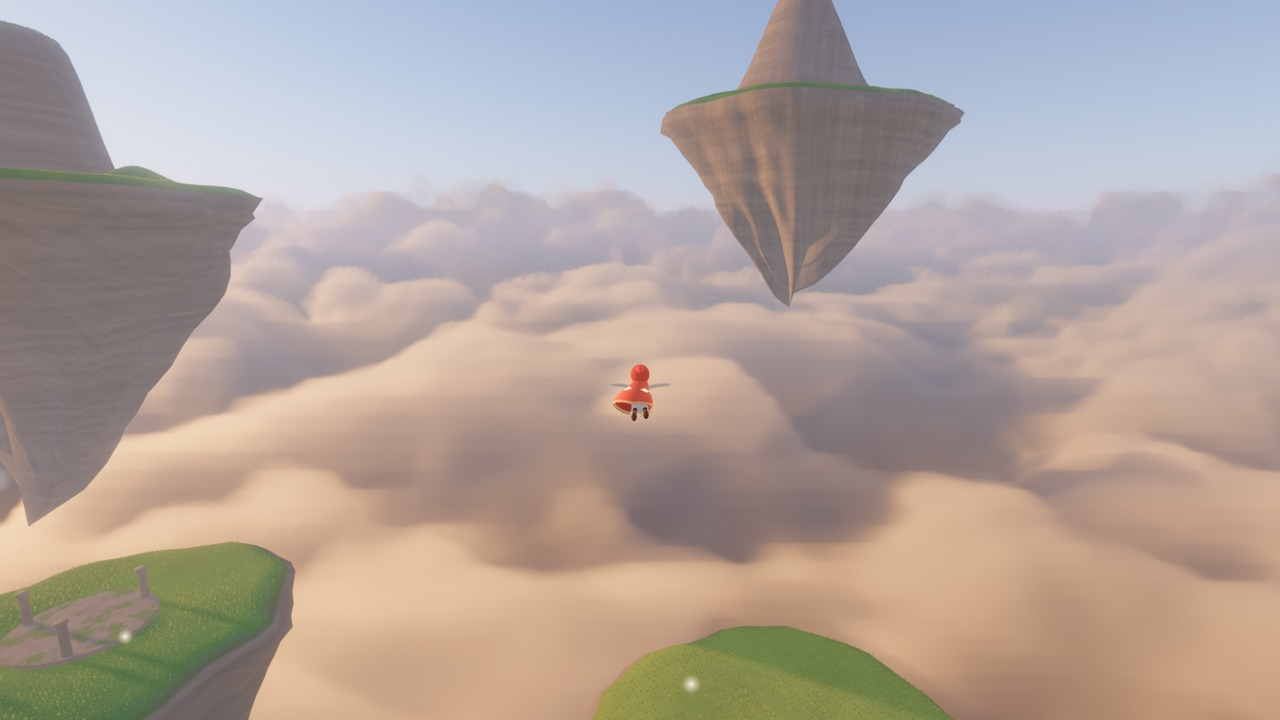
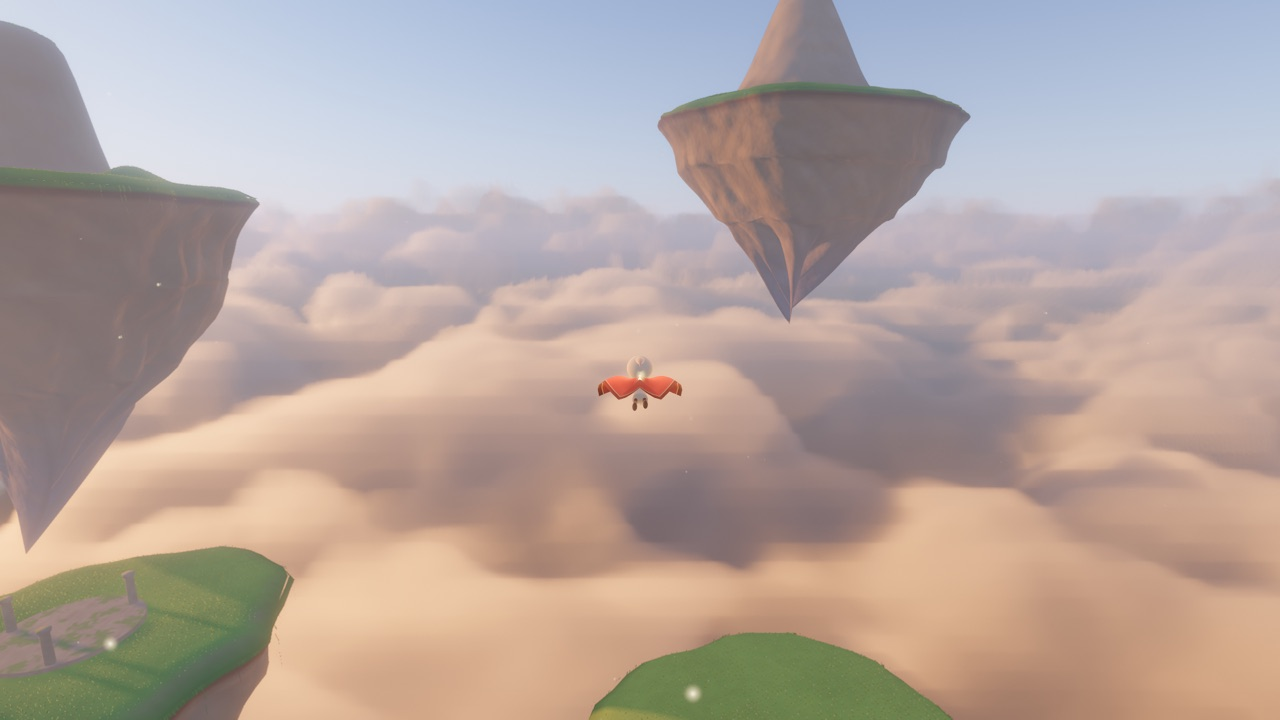
Devlog and README images of the polish round; views.txt captures the cave's roof
Verified: views.txt at 1920x1080 offscreen (5 passed, 0 failed), captures looked at.

diff --git a/devlog/2026-11-08.md b/devlog/2026-11-08.md
@@ -90,6 +90,30 @@ minutes of play, on the Mac and the iPhone. Everything procedural (no third-part
 - **06:17-06:20 — Step 6: the packages, the install.** `tools/package.sh --ios` at `9921d1b`; the iOS app
   installed on the user's iPhone 17 with `devicectl device install app` (no removal of existing content, not
   launched). Nothing else ran on a phone.
+- **06:22 — A polish round** on the largest differences from the look aimed at, in order: the figures, the rock under
+  the isles, the temple's beam, the light, the cave, then the engine's cloud shadows. Each step: captures, looked at,
+  differences listed, fixed, captured again.
+- **06:22-06:34 — The figures** (`28c86e2`). Chibi proportions (about 1.05 m): a round hood with a small pale mask,
+  thin dark legs; a bell cape that swings back when running and spreads as wings in a glide; marks down the back
+  that glow with the energy (dim when spent) with small halos; a soft rim light against the sun. The camera 3.4 m
+  behind (was farther), 25% farther in a glide. Shorter grass, more flowers. The spirits climb over rock in their
+  way (a ray down ahead of them) instead of flying through it.
+- **06:34-06:42 — The rock under the isles** (`0c4d904`). Each isle's underside is its own mesh: a profile with
+  ledges on part of the way round, lumps, buttresses and a few points hanging deeper, so the outline is no longer a
+  cone; earth under the grass, warm stone, cooler and lilac toward the clouds; stone noise projected along the
+  normal (no stretching) with soft bumps, moss on the ledges. Tufts of grass over the rims, roots and vines hanging
+  below them.
+- **06:42-07:16 — The beam, the temple, the light, the cave, the clouds' shadows** (`cfbf9e2`). The beam: a hot
+  core, a glow round it that widens with the distance (seen from the far isles), motes rising in it, a flare where
+  it leaves the temple's crown; the crown: ten pinnacles on the ring, five ribs curving in to a ring at the top. The
+  light: a warmer sun, a cooler sky, denser haze, more bloom; motes of light in the air round the camera (in fixed
+  cells of the world) and 14 small creatures of light over the meadows. The cave: a lumpier dome, rims round its
+  mouth and the holes in its roof, moss in wide patches with glowing specks inside; `views.txt` captures it in the
+  light from the roof (`cave_light`, `cave_roof`). The engine's cloud shadow map now lies on a plane the game sets
+  (`RenderSettings::cloudShadowHeight`, engine `0a1ace9`; engine devlog 2026-11-08): the game pins it and turns the
+  clouds' shadows on with the plane at the isles' height.
+- **07:16-07:20 — Captures and the README.** `views.txt` at 1920x1080 into `dist/captures/` (the first set kept in
+  `dist/captures/v1/`); the README's images made again from them, the cave added.
 
 ## Problems and solutions
 
@@ -136,6 +160,24 @@ minutes of play, on the Mac and the iPhone. Everything procedural (no third-part
 - **`tools/package.sh --ios` looked for `Cloudsong.xcodeproj`.** The Xcode generator names the project after the
   CMake project (`cloudsong`), and the app after the target. Fixed; the script also passes an empty bundle id suffix
   (a paid team).
+- **A fringe of tufts floating in the air** in the first captures of the rock: the cameras stood inside the meadow's
+  rock. Cameras moved outside; the tufts made irregular (in clumps) and darker.
+- **The cave's specks looked like stretched teal leaves.** They were cells of the xz plane, drawn out on the walls.
+  Cells in 3D, smaller and fewer.
+- **The openings in the cave were jagged** (the shell's triangles cut by the holes). Rims of stone round the mouth
+  and each hole.
+- **The cave's walls an even teal** after the moss covered nearly all of them (the golden image's contrast lost).
+  Moss in wide patches with paler stone between them.
+- **`line` is a reserved word in HLSL** (glslang): a variable renamed.
+- **The engine's first cloud shadow plane changed the engine demo's snow capture** (`demo_snow_sky`, mean 0.1064,
+  0.28 % of the pixels over 16): it also moved the map's centre along the sun. The map stays centred under the
+  camera; with the default plane the engine's images are the same as before (engine devlog).
+- **The stair stays a ramp for the physics.** Its 76 steps rise about 0.7 m each (from y 6 to 60), above the virtual
+  character's 0.42 m step-up: not a quick fix.
+- **Costs** (numbers in Results): the meadow's GPU time grew about 4% at Beautiful. A/B runs with each new piece
+  left out (Balanced, 1920x1080): the rock's bumps 0.15 ms in the isles' view, the hanging tufts 0.05 ms, the motes
+  and the beam nothing measurable; the rest is the closer camera and the flowers (`28c86e2`). Skipping triplanar
+  planes of a negligible weight saved nothing measurable and was taken out again.
 
 ## Results
 
@@ -195,15 +237,54 @@ minutes of play, on the Mac and the iPhone. Everything procedural (no third-part
   0 failed; the capture looked at: the start on the meadow); `dist/Cloudsong-0.1.0-9921d1b-ios/cloudsong.app`
   (signature valid, the team's, a development profile embedded). Installed on the iPhone 17 (`devicectl`: "App
   installed", bundle id `org.quench.cloudsong`). Not launched; nobody has seen it on the phone yet.
+- **The polish round** (07:16): release and debug builds without warnings, `ctest` 12 of 12 in both (release
+  26.8 s, debug 45.2 s) with the six golden images replaced after looking at them, old against new (mean
+  difference, share of pixels over 16): meadow 3.10, 0.20 % (the warmer light); edge 3.20, 0.18 %; isles 4.60,
+  2.28 % (the rock, the beam's glow); temple 4.41, 5.85 % (the crown, the beam); cave 3.25, 1.54 % (the moss, the
+  rims); title 3.37, 2.19 % (the beam). Looked at (1280x720 and 1920x1080): the figure close up, the meadow, the
+  edge, the glide, the isles with the beam from afar, the spirit by the pond, the pond, the cave's mouth, inside and
+  in the light from the roof, the end close up and from afar, the title. The engine at `0a1ace9`: its
+  `renderer_cloud_shadow_height` and gates in the engine devlog. Cloud shadows on with the plane at the isles: the
+  meadow's capture shows no change (no cloud in this weather rises above the isles).
+- **Frame and GPU times after the round** (07:05-07:25, `scenarios/perf.txt`, the same conditions as at 06:10; the
+  1920x1080 runs are comparable: the fixed-cost passes (tonemap, bloom, TAA) took the same time in both). Meadow /
+  isles / temple / cave / glide, GPU ms, before -> after:
+
+  | Setting, render size | GPU before | GPU after | Frame after |
+  |---|---|---|---|
+  | Beautiful, 1920x1080 | 9.9 / 6.3 / 4.7 / 7.0 / 4.4 | 10.3 / 7.1 / 5.0 / 7.3 / 4.8 | 7.3 / 5.2 / 4.5 / 5.9 / 4.1 |
+  | Balanced, 1632x918 | 4.7 / 3.3 / 2.6 / 3.4 / 2.5 | 5.1 / 3.7 / 2.7 / 3.7 / 2.8 | 3.8 / 3.0 / 2.4 / 3.2 / 2.3 |
+  | Light, 1344x756 | 3.2 / 2.1 / 1.4 / 2.0 / 1.3 | 3.6 / 2.5 / 1.5 / 2.2 / 1.5 | 2.3 / 1.6 / 1.2 / 1.7 / 1.2 |
+  | Beautiful, 2622x1206 | 12.5 / 8.5 / 6.3 / 9.1 / 6.1 | 13.1 / 9.6 / 6.6 / 9.4 / 6.6 | 9.8 / 7.3 / 5.9 / 8.1 / 5.7 |
+  | Balanced at the phone's scale, 1828x841 | 5.2 / 4.0 / 2.7 / 3.6 / 2.7 | 5.2 / 4.1 / 2.8 / 3.8 / 2.9 | 4.0 / 3.3 / 2.5 / 3.3 / 2.4 |
+
+  The meadow's HDR pass 4.60 -> 4.79 ms at Beautiful, 2.73 -> 3.13 at Balanced; the isles' 1.97 -> 2.45 and
+  1.25 -> 1.64. The phone-scale runs vary more: a first run after the round, at 1828x841, measured the meadow at
+  6.8 ms with every fixed-cost pass 10 to 23 % slower than before (another GPU state); the table has the second.
+- **Captures** (1920x1080, native Metal, offscreen): `dist/captures/` holds `title`, `meadow`, `closeup`, `edge`,
+  `glide`, `isles`, `spirit`, `pond`, `cave_light`, `cave_roof`, `end` and `end_close` (`.png`); the first set
+  (`title`, `glide`, `isles`, `spirit`, `pond`, `end`) in `dist/captures/v1/`. README images: `title`, `glide`,
+  `isles`, `spirit`, `cave_roof` (`docs/images/*.jpg`, 1280x720, 81 to 195 KB).
 
 ## Limitations and open questions
 
-- The engine's cloud shadow map lies on the plane y = 0 (`docs/weather.md`): cloud shadows are off here.
+- The engine's cloud shadow map lies on the plane y = 0 (`docs/weather.md`): cloud shadows are off here. (Since
+  07:16 on, on the isles' plane: engine `0a1ace9`.)
 - The cave's outside is still a smooth mossy dome (the boulders are gone). The isles' rims show as flat bands.
+  (Since the polish round: a lumpier dome with rims at its openings; the rims have tufts and ledges below them.)
 - The touch controls ran only under scripted fingers on the Mac; nobody has used them on a phone.
 - Nobody has listened to the score or the sounds: they are checked by measurement only.
 - The spirits fly in straight lines (through rock if it is in the way); the stair and the temple's tiers collide as
-  ramps, so feet float or sink a little on the steps.
+  ramps, so feet float or sink a little on the steps. (Since `28c86e2` the spirits climb over rock ahead of them;
+  the stair and the tiers are still ramps.)
+- The polish round was judged in still captures only; nobody has seen the capes, the motes, the creatures of light
+  or the beam's flare in motion. The cave's moss and the rock's ledges are noise, not modelled shapes; the vines
+  under the isles are thin strips, and a few hang in front of the rock as straight lines from some angles.
+- The cloud shadow map has one plane (the isles' base height); the isles range over a few tens of metres around it,
+  so the error is small, but a cloud rising between two isles of very different heights would shade them slightly
+  off. No cloud rises above the isles in this weather, so the shadows change nothing visible yet.
+- The new pieces cost GPU time (Results): about +0.4 ms on the meadow and the isles at Balanced on the M4 Pro; on a
+  phone at about three times that, an estimate.
 - The macOS builds use the local engine override; the iOS build used the pinned commit alone.
 - Nothing ran on a phone. With the engine's measured ratio (an iPhone 17 about three times an M4 Pro's GPU time),
   Balanced at the phone's scale would take about 8 to 16 ms on the GPU, the meadow at the edge of 60 Hz: an estimate,
@@ -216,3 +297,6 @@ minutes of play, on the Mac and the iPhone. Everything procedural (no third-part
 1. On the phone (the user): play it; the touch controls by hand; the frame time on the meadow at Balanced; listen.
 2. The looks still to improve: the cave's smooth dome, the isles' flat rims, the end's
    camera (a column can hide the altar), spirits that fly through rock.
+3. After the polish round: look at it in motion (the capes, the motes, the beam); the stair's steps as colliding
+   steps (a lower rise, or the character's step-up raised); the rock's bumps from screen-space derivatives (one noise
+   per octave instead of four) if the phone's frame time needs it.

diff --git a/README.md b/README.md
@@ -10,7 +10,7 @@ A short journey of about ten to fifteen minutes.
 | | |
 |---|---|
 | ![Gliding over the sea of clouds](docs/images/glide.jpg) | ![The isles and the temple of light](docs/images/isles.jpg) |
-| ![A spirit woken by the pond](docs/images/spirit.jpg) | |
+| ![A spirit woken by the pond](docs/images/spirit.jpg) | ![In the green cave, under the light from its roof](docs/images/cave_roof.jpg) |
 
 Everything in it but one font is made by code: the isles, the grass and flowers, the ruins, the figures, their capes,
 the light, the music and the sounds (see `CREDITS.md`).
